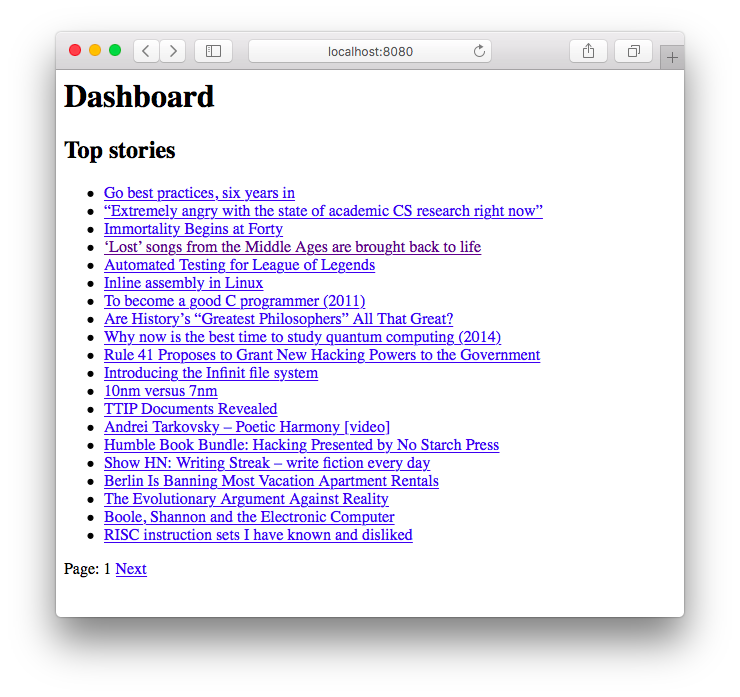
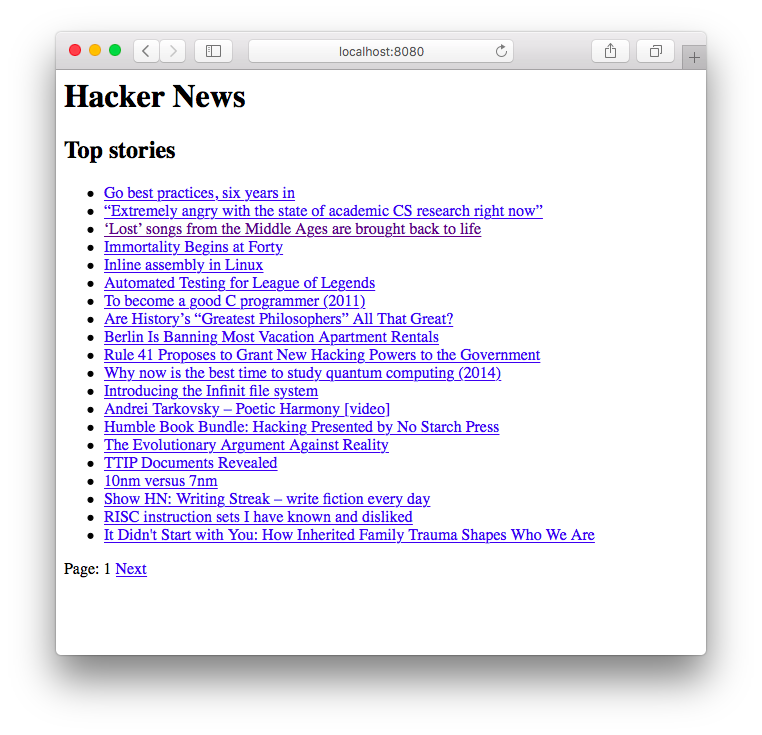
Not using word dashboard in template anymore

Changed region(s): [[0.0622, 0.0603, 0.9324, 0.8436], [0.0622, 0.8737, 0.9324, 0.9039]]

diff --git a/app/top_stories/top_stories.html b/app/top_stories/top_stories.html
@@ -1,4 +1,4 @@
-<h1>Dashboard</h1>
+<h1>Hacker News</h1>
 
 <h2>Top stories</h2>
 
